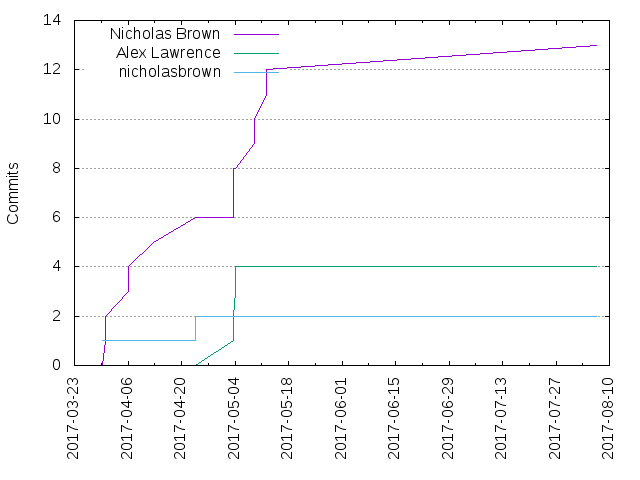
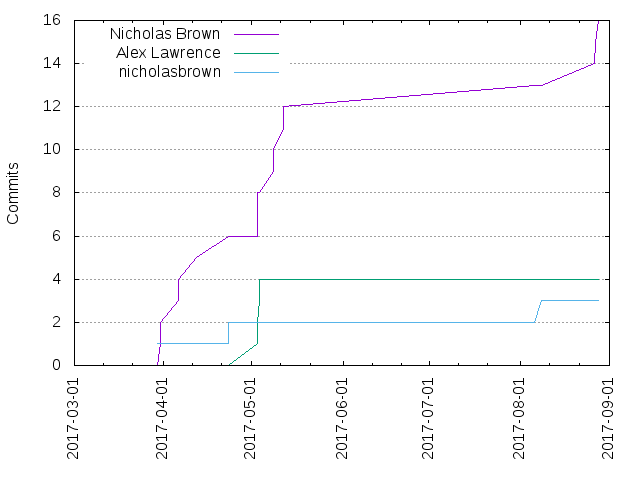
Update landing page, gitstats.

diff --git a/api-stats/activity.html b/api-stats/activity.html
@@ -22,27 +22,27 @@
 
 <h2 id="weekly_activity"><a href="#weekly_activity">Weekly activity</a></h2>
 
-<p>Last 32 weeks</p><table class="noborders"><tr><td style="text-align: center; vertical-align: bottom">0<div style="display: block; background-color: red; width: 20px; height: 1px"></div></td><td style="text-align: center; vertical-align: bottom">0<div style="display: block; background-color: red; width: 20px; height: 1px"></div></td><td style="text-align: center; vertical-align: bottom">0<div style="display: block; background-color: red; width: 20px; height: 1px"></div></td><td style="text-align: center; vertical-align: bottom">0<div style="display: block; background-color: red; width: 20px; height: 1px"></div></td><td style="text-align: center; vertical-align: bottom">0<div style="display: block; background-color: red; width: 20px; height: 1px"></div></td><td style="text-align: center; vertical-align: bottom">0<div style="display: block; background-color: red; width: 20px; height: 1px"></div></td><td style="text-align: center; vertical-align: bottom">0<div style="display: block; background-color: red; width: 20px; height: 1px"></div></td><td style="text-align: center; vertical-align: bottom">0<div style="display: block; background-color: red; width: 20px; height: 1px"></div></td><td style="text-align: center; vertical-align: bottom">0<div style="display: block; background-color: red; width: 20px; height: 1px"></div></td><td style="text-align: center; vertical-align: bottom">0<div style="display: block; background-color: red; width: 20px; height: 1px"></div></td><td style="text-align: center; vertical-align: bottom">3<div style="display: block; background-color: red; width: 20px; height: 100px"></div></td><td style="text-align: center; vertical-align: bottom">2<div style="display: block; background-color: red; width: 20px; height: 66px"></div></td><td style="text-align: center; vertical-align: bottom">1<div style="display: block; background-color: red; width: 20px; height: 33px"></div></td><td style="text-align: center; vertical-align: bottom">1<div style="display: block; background-color: red; width: 20px; height: 33px"></div></td><td style="text-align: center; vertical-align: bottom">1<div style="display: block; background-color: red; width: 20px; height: 33px"></div></td><td style="text-align: center; vertical-align: bottom">6<div style="display: block; background-color: red; width: 20px; height: 200px"></div></td><td style="text-align: center; vertical-align: bottom">4<div style="display: block; background-color: red; width: 20px; height: 133px"></div></td><td style="text-align: center; vertical-align: bottom">0<div style="display: block; background-color: red; width: 20px; height: 1px"></div></td><td style="text-align: center; vertical-align: bottom">0<div style="display: block; background-color: red; width: 20px; height: 1px"></div></td><td style="text-align: center; vertical-align: bottom">0<div style="display: block; background-color: red; width: 20px; height: 1px"></div></td><td style="text-align: center; vertical-align: bottom">0<div style="display: block; background-color: red; width: 20px; height: 1px"></div></td><td style="text-align: center; vertical-align: bottom">0<div style="display: block; background-color: red; width: 20px; height: 1px"></div></td><td style="text-align: center; vertical-align: bottom">0<div style="display: block; background-color: red; width: 20px; height: 1px"></div></td><td style="text-align: center; vertical-align: bottom">0<div style="display: block; background-color: red; width: 20px; height: 1px"></div></td><td style="text-align: center; vertical-align: bottom">0<div style="display: block; background-color: red; width: 20px; height: 1px"></div></td><td style="text-align: center; vertical-align: bottom">0<div style="display: block; background-color: red; width: 20px; height: 1px"></div></td><td style="text-align: center; vertical-align: bottom">0<div style="display: block; background-color: red; width: 20px; height: 1px"></div></td><td style="text-align: center; vertical-align: bottom">0<div style="display: block; background-color: red; width: 20px; height: 1px"></div></td><td style="text-align: center; vertical-align: bottom">1<div style="display: block; background-color: red; width: 20px; height: 33px"></div></td><td style="text-align: center; vertical-align: bottom">0<div style="display: block; background-color: red; width: 20px; height: 1px"></div></td><td style="text-align: center; vertical-align: bottom">0<div style="display: block; background-color: red; width: 20px; height: 1px"></div></td><td style="text-align: center; vertical-align: bottom">0<div style="display: block; background-color: red; width: 20px; height: 1px"></div></td></tr><tr><td>32</td><td>31</td><td>30</td><td>29</td><td>28</td><td>27</td><td>26</td><td>25</td><td>24</td><td>23</td><td>22</td><td>21</td><td>20</td><td>19</td><td>18</td><td>17</td><td>16</td><td>15</td><td>14</td><td>13</td><td>12</td><td>11</td><td>10</td><td>9</td><td>8</td><td>7</td><td>6</td><td>5</td><td>4</td><td>3</td><td>2</td><td>1</td></tr></table>
+<p>Last 32 weeks</p><table class="noborders"><tr><td style="text-align: center; vertical-align: bottom">0<div style="display: block; background-color: red; width: 20px; height: 1px"></div></td><td style="text-align: center; vertical-align: bottom">0<div style="display: block; background-color: red; width: 20px; height: 1px"></div></td><td style="text-align: center; vertical-align: bottom">0<div style="display: block; background-color: red; width: 20px; height: 1px"></div></td><td style="text-align: center; vertical-align: bottom">0<div style="display: block; background-color: red; width: 20px; height: 1px"></div></td><td style="text-align: center; vertical-align: bottom">0<div style="display: block; background-color: red; width: 20px; height: 1px"></div></td><td style="text-align: center; vertical-align: bottom">0<div style="display: block; background-color: red; width: 20px; height: 1px"></div></td><td style="text-align: center; vertical-align: bottom">0<div style="display: block; background-color: red; width: 20px; height: 1px"></div></td><td style="text-align: center; vertical-align: bottom">0<div style="display: block; background-color: red; width: 20px; height: 1px"></div></td><td style="text-align: center; vertical-align: bottom">0<div style="display: block; background-color: red; width: 20px; height: 1px"></div></td><td style="text-align: center; vertical-align: bottom">3<div style="display: block; background-color: red; width: 20px; height: 100px"></div></td><td style="text-align: center; vertical-align: bottom">2<div style="display: block; background-color: red; width: 20px; height: 66px"></div></td><td style="text-align: center; vertical-align: bottom">1<div style="display: block; background-color: red; width: 20px; height: 33px"></div></td><td style="text-align: center; vertical-align: bottom">1<div style="display: block; background-color: red; width: 20px; height: 33px"></div></td><td style="text-align: center; vertical-align: bottom">1<div style="display: block; background-color: red; width: 20px; height: 33px"></div></td><td style="text-align: center; vertical-align: bottom">6<div style="display: block; background-color: red; width: 20px; height: 200px"></div></td><td style="text-align: center; vertical-align: bottom">4<div style="display: block; background-color: red; width: 20px; height: 133px"></div></td><td style="text-align: center; vertical-align: bottom">0<div style="display: block; background-color: red; width: 20px; height: 1px"></div></td><td style="text-align: center; vertical-align: bottom">0<div style="display: block; background-color: red; width: 20px; height: 1px"></div></td><td style="text-align: center; vertical-align: bottom">0<div style="display: block; background-color: red; width: 20px; height: 1px"></div></td><td style="text-align: center; vertical-align: bottom">0<div style="display: block; background-color: red; width: 20px; height: 1px"></div></td><td style="text-align: center; vertical-align: bottom">0<div style="display: block; background-color: red; width: 20px; height: 1px"></div></td><td style="text-align: center; vertical-align: bottom">0<div style="display: block; background-color: red; width: 20px; height: 1px"></div></td><td style="text-align: center; vertical-align: bottom">0<div style="display: block; background-color: red; width: 20px; height: 1px"></div></td><td style="text-align: center; vertical-align: bottom">0<div style="display: block; background-color: red; width: 20px; height: 1px"></div></td><td style="text-align: center; vertical-align: bottom">0<div style="display: block; background-color: red; width: 20px; height: 1px"></div></td><td style="text-align: center; vertical-align: bottom">0<div style="display: block; background-color: red; width: 20px; height: 1px"></div></td><td style="text-align: center; vertical-align: bottom">0<div style="display: block; background-color: red; width: 20px; height: 1px"></div></td><td style="text-align: center; vertical-align: bottom">1<div style="display: block; background-color: red; width: 20px; height: 33px"></div></td><td style="text-align: center; vertical-align: bottom">1<div style="display: block; background-color: red; width: 20px; height: 33px"></div></td><td style="text-align: center; vertical-align: bottom">0<div style="display: block; background-color: red; width: 20px; height: 1px"></div></td><td style="text-align: center; vertical-align: bottom">2<div style="display: block; background-color: red; width: 20px; height: 66px"></div></td><td style="text-align: center; vertical-align: bottom">1<div style="display: block; background-color: red; width: 20px; height: 33px"></div></td></tr><tr><td>32</td><td>31</td><td>30</td><td>29</td><td>28</td><td>27</td><td>26</td><td>25</td><td>24</td><td>23</td><td>22</td><td>21</td><td>20</td><td>19</td><td>18</td><td>17</td><td>16</td><td>15</td><td>14</td><td>13</td><td>12</td><td>11</td><td>10</td><td>9</td><td>8</td><td>7</td><td>6</td><td>5</td><td>4</td><td>3</td><td>2</td><td>1</td></tr></table>
 <h2 id="hour_of_day"><a href="#hour_of_day">Hour of Day</a></h2>
 
 <table><tr><th>Hour</th><th>0</th><th>1</th><th>2</th><th>3</th><th>4</th><th>5</th><th>6</th><th>7</th><th>8</th><th>9</th><th>10</th><th>11</th><th>12</th><th>13</th><th>14</th><th>15</th><th>16</th><th>17</th><th>18</th><th>19</th><th>20</th><th>21</th><th>22</th><th>23</th></tr>
-<tr><th>Commits</th><td style="background-color: rgb(255, 0, 0)">4</td><td>0</td><td>0</td><td>0</td><td>0</td><td>0</td><td>0</td><td>0</td><td>0</td><td style="background-color: rgb(159, 0, 0)">1</td><td style="background-color: rgb(159, 0, 0)">1</td><td style="background-color: rgb(159, 0, 0)">1</td><td>0</td><td style="background-color: rgb(159, 0, 0)">1</td><td style="background-color: rgb(191, 0, 0)">2</td><td style="background-color: rgb(159, 0, 0)">1</td><td style="background-color: rgb(191, 0, 0)">2</td><td style="background-color: rgb(191, 0, 0)">2</td><td>0</td><td>0</td><td>0</td><td>0</td><td>0</td><td style="background-color: rgb(255, 0, 0)">4</td></tr>
-<tr><th>%</th><td style="background-color: rgb(255, 0, 0)">21.05</td><td>0.00</td><td>0.00</td><td>0.00</td><td>0.00</td><td>0.00</td><td>0.00</td><td>0.00</td><td>0.00</td><td style="background-color: rgb(159, 0, 0)">5.26</td><td style="background-color: rgb(159, 0, 0)">5.26</td><td style="background-color: rgb(159, 0, 0)">5.26</td><td>0.00</td><td style="background-color: rgb(159, 0, 0)">5.26</td><td style="background-color: rgb(191, 0, 0)">10.53</td><td style="background-color: rgb(159, 0, 0)">5.26</td><td style="background-color: rgb(191, 0, 0)">10.53</td><td style="background-color: rgb(191, 0, 0)">10.53</td><td>0.00</td><td>0.00</td><td>0.00</td><td>0.00</td><td>0.00</td><td style="background-color: rgb(255, 0, 0)">21.05</td></tr></table><img src="hour_of_day.png" alt="Hour of Day">
+<tr><th>Commits</th><td style="background-color: rgb(255, 0, 0)">4</td><td>0</td><td>0</td><td>0</td><td>0</td><td>0</td><td>0</td><td>0</td><td style="background-color: rgb(159, 0, 0)">1</td><td style="background-color: rgb(159, 0, 0)">1</td><td style="background-color: rgb(159, 0, 0)">1</td><td style="background-color: rgb(159, 0, 0)">1</td><td>0</td><td style="background-color: rgb(159, 0, 0)">1</td><td style="background-color: rgb(191, 0, 0)">2</td><td style="background-color: rgb(159, 0, 0)">1</td><td style="background-color: rgb(223, 0, 0)">3</td><td style="background-color: rgb(223, 0, 0)">3</td><td style="background-color: rgb(159, 0, 0)">1</td><td>0</td><td>0</td><td>0</td><td>0</td><td style="background-color: rgb(255, 0, 0)">4</td></tr>
+<tr><th>%</th><td style="background-color: rgb(255, 0, 0)">17.39</td><td>0.00</td><td>0.00</td><td>0.00</td><td>0.00</td><td>0.00</td><td>0.00</td><td>0.00</td><td style="background-color: rgb(159, 0, 0)">4.35</td><td style="background-color: rgb(159, 0, 0)">4.35</td><td style="background-color: rgb(159, 0, 0)">4.35</td><td style="background-color: rgb(159, 0, 0)">4.35</td><td>0.00</td><td style="background-color: rgb(159, 0, 0)">4.35</td><td style="background-color: rgb(191, 0, 0)">8.70</td><td style="background-color: rgb(159, 0, 0)">4.35</td><td style="background-color: rgb(223, 0, 0)">13.04</td><td style="background-color: rgb(223, 0, 0)">13.04</td><td style="background-color: rgb(159, 0, 0)">4.35</td><td>0.00</td><td>0.00</td><td>0.00</td><td>0.00</td><td style="background-color: rgb(255, 0, 0)">17.39</td></tr></table><img src="hour_of_day.png" alt="Hour of Day">
 <h2 id="day_of_week"><a href="#day_of_week">Day of Week</a></h2>
 
-<div class="vtable"><table><tr><th>Day</th><th>Total (%)</th></tr><tr><th>Mon</th><td>1 (5.26%)</td></tr><tr><th>Tue</th><td>2 (10.53%)</td></tr><tr><th>Wed</th><td>2 (10.53%)</td></tr><tr><th>Thu</th><td>8 (42.11%)</td></tr><tr><th>Fri</th><td>4 (21.05%)</td></tr><tr><th>Sat</th><td>0</td></tr><tr><th>Sun</th><td>2 (10.53%)</td></tr></table></div><img src="day_of_week.png" alt="Day of Week">
+<div class="vtable"><table><tr><th>Day</th><th>Total (%)</th></tr><tr><th>Mon</th><td>2 (8.70%)</td></tr><tr><th>Tue</th><td>2 (8.70%)</td></tr><tr><th>Wed</th><td>3 (13.04%)</td></tr><tr><th>Thu</th><td>8 (34.78%)</td></tr><tr><th>Fri</th><td>4 (17.39%)</td></tr><tr><th>Sat</th><td>0</td></tr><tr><th>Sun</th><td>4 (17.39%)</td></tr></table></div><img src="day_of_week.png" alt="Day of Week">
 <h2 id="hour_of_week"><a href="#hour_of_week">Hour of Week</a></h2>
 
-<table><tr><th>Weekday</th><th>0</th><th>1</th><th>2</th><th>3</th><th>4</th><th>5</th><th>6</th><th>7</th><th>8</th><th>9</th><th>10</th><th>11</th><th>12</th><th>13</th><th>14</th><th>15</th><th>16</th><th>17</th><th>18</th><th>19</th><th>20</th><th>21</th><th>22</th><th>23</th></tr><tr><th>Mon</th><td style="background-color: rgb(169, 0, 0)">1</td><td></td><td></td><td></td><td></td><td></td><td></td><td></td><td></td><td></td><td></td><td></td><td></td><td></td><td></td><td></td><td></td><td></td><td></td><td></td><td></td><td></td><td></td><td></td></tr><tr><th>Tue</th><td></td><td></td><td></td><td></td><td></td><td></td><td></td><td></td><td></td><td style="background-color: rgb(169, 0, 0)">1</td><td style="background-color: rgb(169, 0, 0)">1</td><td></td><td></td><td></td><td></td><td></td><td></td><td></td><td></td><td></td><td></td><td></td><td></td><td></td></tr><tr><th>Wed</th><td></td><td></td><td></td><td></td><td></td><td></td><td></td><td></td><td></td><td></td><td></td><td></td><td></td><td></td><td></td><td></td><td></td><td></td><td></td><td></td><td></td><td></td><td></td><td style="background-color: rgb(212, 0, 0)">2</td></tr><tr><th>Thu</th><td style="background-color: rgb(255, 0, 0)">3</td><td></td><td></td><td></td><td></td><td></td><td></td><td></td><td></td><td></td><td></td><td style="background-color: rgb(169, 0, 0)">1</td><td></td><td></td><td style="background-color: rgb(169, 0, 0)">1</td><td style="background-color: rgb(169, 0, 0)">1</td><td style="background-color: rgb(212, 0, 0)">2</td><td></td><td></td><td></td><td></td><td></td><td></td><td></td></tr><tr><th>Fri</th><td></td><td></td><td></td><td></td><td></td><td></td><td></td><td></td><td></td><td></td><td></td><td></td><td></td><td style="background-color: rgb(169, 0, 0)">1</td><td style="background-color: rgb(169, 0, 0)">1</td><td></td><td></td><td style="background-color: rgb(212, 0, 0)">2</td><td></td><td></td><td></td><td></td><td></td><td></td></tr><tr><th>Sat</th><td></td><td></td><td></td><td></td><td></td><td></td><td></td><td></td><td></td><td></td><td></td><td></td><td></td><td></td><td></td><td></td><td></td><td></td><td></td><td></td><td></td><td></td><td></td><td></td></tr><tr><th>Sun</th><td></td><td></td><td></td><td></td><td></td><td></td><td></td><td></td><td></td><td></td><td></td><td></td><td></td><td></td><td></td><td></td><td></td><td></td><td></td><td></td><td></td><td></td><td></td><td style="background-color: rgb(212, 0, 0)">2</td></tr></table>
+<table><tr><th>Weekday</th><th>0</th><th>1</th><th>2</th><th>3</th><th>4</th><th>5</th><th>6</th><th>7</th><th>8</th><th>9</th><th>10</th><th>11</th><th>12</th><th>13</th><th>14</th><th>15</th><th>16</th><th>17</th><th>18</th><th>19</th><th>20</th><th>21</th><th>22</th><th>23</th></tr><tr><th>Mon</th><td style="background-color: rgb(169, 0, 0)">1</td><td></td><td></td><td></td><td></td><td></td><td></td><td></td><td></td><td></td><td></td><td></td><td></td><td></td><td></td><td></td><td></td><td></td><td style="background-color: rgb(169, 0, 0)">1</td><td></td><td></td><td></td><td></td><td></td></tr><tr><th>Tue</th><td></td><td></td><td></td><td></td><td></td><td></td><td></td><td></td><td></td><td style="background-color: rgb(169, 0, 0)">1</td><td style="background-color: rgb(169, 0, 0)">1</td><td></td><td></td><td></td><td></td><td></td><td></td><td></td><td></td><td></td><td></td><td></td><td></td><td></td></tr><tr><th>Wed</th><td></td><td></td><td></td><td></td><td></td><td></td><td></td><td></td><td style="background-color: rgb(169, 0, 0)">1</td><td></td><td></td><td></td><td></td><td></td><td></td><td></td><td></td><td></td><td></td><td></td><td></td><td></td><td></td><td style="background-color: rgb(212, 0, 0)">2</td></tr><tr><th>Thu</th><td style="background-color: rgb(255, 0, 0)">3</td><td></td><td></td><td></td><td></td><td></td><td></td><td></td><td></td><td></td><td></td><td style="background-color: rgb(169, 0, 0)">1</td><td></td><td></td><td style="background-color: rgb(169, 0, 0)">1</td><td style="background-color: rgb(169, 0, 0)">1</td><td style="background-color: rgb(212, 0, 0)">2</td><td></td><td></td><td></td><td></td><td></td><td></td><td></td></tr><tr><th>Fri</th><td></td><td></td><td></td><td></td><td></td><td></td><td></td><td></td><td></td><td></td><td></td><td></td><td></td><td style="background-color: rgb(169, 0, 0)">1</td><td style="background-color: rgb(169, 0, 0)">1</td><td></td><td></td><td style="background-color: rgb(212, 0, 0)">2</td><td></td><td></td><td></td><td></td><td></td><td></td></tr><tr><th>Sat</th><td></td><td></td><td></td><td></td><td></td><td></td><td></td><td></td><td></td><td></td><td></td><td></td><td></td><td></td><td></td><td></td><td></td><td></td><td></td><td></td><td></td><td></td><td></td><td></td></tr><tr><th>Sun</th><td></td><td></td><td></td><td></td><td></td><td></td><td></td><td></td><td></td><td></td><td></td><td></td><td></td><td></td><td></td><td></td><td style="background-color: rgb(169, 0, 0)">1</td><td style="background-color: rgb(169, 0, 0)">1</td><td></td><td></td><td></td><td></td><td></td><td style="background-color: rgb(212, 0, 0)">2</td></tr></table>
 <h2 id="month_of_year"><a href="#month_of_year">Month of Year</a></h2>
 
-<div class="vtable"><table><tr><th>Month</th><th>Commits (%)</th></tr><tr><td>1</td><td>0 (0.00 %)</td></tr><tr><td>2</td><td>0 (0.00 %)</td></tr><tr><td>3</td><td>3 (15.79 %)</td></tr><tr><td>4</td><td>5 (26.32 %)</td></tr><tr><td>5</td><td>10 (52.63 %)</td></tr><tr><td>6</td><td>0 (0.00 %)</td></tr><tr><td>7</td><td>0 (0.00 %)</td></tr><tr><td>8</td><td>1 (5.26 %)</td></tr><tr><td>9</td><td>0 (0.00 %)</td></tr><tr><td>10</td><td>0 (0.00 %)</td></tr><tr><td>11</td><td>0 (0.00 %)</td></tr><tr><td>12</td><td>0 (0.00 %)</td></tr></table></div><img src="month_of_year.png" alt="Month of Year">
+<div class="vtable"><table><tr><th>Month</th><th>Commits (%)</th></tr><tr><td>1</td><td>0 (0.00 %)</td></tr><tr><td>2</td><td>0 (0.00 %)</td></tr><tr><td>3</td><td>3 (13.04 %)</td></tr><tr><td>4</td><td>5 (21.74 %)</td></tr><tr><td>5</td><td>10 (43.48 %)</td></tr><tr><td>6</td><td>0 (0.00 %)</td></tr><tr><td>7</td><td>0 (0.00 %)</td></tr><tr><td>8</td><td>5 (21.74 %)</td></tr><tr><td>9</td><td>0 (0.00 %)</td></tr><tr><td>10</td><td>0 (0.00 %)</td></tr><tr><td>11</td><td>0 (0.00 %)</td></tr><tr><td>12</td><td>0 (0.00 %)</td></tr></table></div><img src="month_of_year.png" alt="Month of Year">
 <h2 id="commits_by_year/month"><a href="#commits_by_year/month">Commits by year/month</a></h2>
 
-<div class="vtable"><table><tr><th>Month</th><th>Commits</th><th>Lines added</th><th>Lines removed</th></tr><tr><td>2017-08</td><td>1</td><td>104</td><td>23</td></tr><tr><td>2017-05</td><td>10</td><td>216</td><td>54</td></tr><tr><td>2017-04</td><td>5</td><td>804</td><td>414</td></tr><tr><td>2017-03</td><td>3</td><td>210</td><td>2</td></tr></table></div><img src="commits_by_year_month.png" alt="Commits by year/month">
+<div class="vtable"><table><tr><th>Month</th><th>Commits</th><th>Lines added</th><th>Lines removed</th></tr><tr><td>2017-08</td><td>5</td><td>243</td><td>82</td></tr><tr><td>2017-05</td><td>10</td><td>216</td><td>54</td></tr><tr><td>2017-04</td><td>5</td><td>804</td><td>414</td></tr><tr><td>2017-03</td><td>3</td><td>210</td><td>2</td></tr></table></div><img src="commits_by_year_month.png" alt="Commits by year/month">
 <h2 id="commits_by_year"><a href="#commits_by_year">Commits by Year</a></h2>
 
-<div class="vtable"><table><tr><th>Year</th><th>Commits (% of all)</th><th>Lines added</th><th>Lines removed</th></tr><tr><td>2017</td><td>19 (100.00%)</td><td>1334</td><td>493</td></tr></table></div><img src="commits_by_year.png" alt="Commits by Year">
+<div class="vtable"><table><tr><th>Year</th><th>Commits (% of all)</th><th>Lines added</th><th>Lines removed</th></tr><tr><td>2017</td><td>23 (100.00%)</td><td>1473</td><td>552</td></tr></table></div><img src="commits_by_year.png" alt="Commits by Year">
 <h2 id="commits_by_timezone"><a href="#commits_by_timezone">Commits by Timezone</a></h2>
 
-<table><tr><th>Timezone</th><th>Commits</th></tr><tr><th>+1000</th><td style="background-color: rgb(255, 0, 0)">16</td></tr><tr><th>+1100</th><td style="background-color: rgb(151, 0, 0)">3</td></tr></table></body></html>
+<table><tr><th>Timezone</th><th>Commits</th></tr><tr><th>+1000</th><td style="background-color: rgb(255, 0, 0)">20</td></tr><tr><th>+1100</th><td style="background-color: rgb(146, 0, 0)">3</td></tr></table></body></html>

diff --git a/app-stats/activity.html b/app-stats/activity.html
@@ -22,7 +22,7 @@
 
 <h2 id="weekly_activity"><a href="#weekly_activity">Weekly activity</a></h2>
 
-<p>Last 32 weeks</p><table class="noborders"><tr><td style="text-align: center; vertical-align: bottom">0<div style="display: block; background-color: red; width: 20px; height: 1px"></div></td><td style="text-align: center; vertical-align: bottom">0<div style="display: block; background-color: red; width: 20px; height: 1px"></div></td><td style="text-align: center; vertical-align: bottom">0<div style="display: block; background-color: red; width: 20px; height: 1px"></div></td><td style="text-align: center; vertical-align: bottom">0<div style="display: block; background-color: red; width: 20px; height: 1px"></div></td><td style="text-align: center; vertical-align: bottom">0<div style="display: block; background-color: red; width: 20px; height: 1px"></div></td><td style="text-align: center; vertical-align: bottom">0<div style="display: block; background-color: red; width: 20px; height: 1px"></div></td><td style="text-align: center; vertical-align: bottom">0<div style="display: block; background-color: red; width: 20px; height: 1px"></div></td><td style="text-align: center; vertical-align: bottom">0<div style="display: block; background-color: red; width: 20px; height: 1px"></div></td><td style="text-align: center; vertical-align: bottom">0<div style="display: block; background-color: red; width: 20px; height: 1px"></div></td><td style="text-align: center; vertical-align: bottom">0<div style="display: block; background-color: red; width: 20px; height: 1px"></div></td><td style="text-align: center; vertical-align: bottom">2<div style="display: block; background-color: red; width: 20px; height: 133px"></div></td><td style="text-align: center; vertical-align: bottom">3<div style="display: block; background-color: red; width: 20px; height: 200px"></div></td><td style="text-align: center; vertical-align: bottom">0<div style="display: block; background-color: red; width: 20px; height: 1px"></div></td><td style="text-align: center; vertical-align: bottom">0<div style="display: block; background-color: red; width: 20px; height: 1px"></div></td><td style="text-align: center; vertical-align: bottom">0<div style="display: block; background-color: red; width: 20px; height: 1px"></div></td><td style="text-align: center; vertical-align: bottom">0<div style="display: block; background-color: red; width: 20px; height: 1px"></div></td><td style="text-align: center; vertical-align: bottom">0<div style="display: block; background-color: red; width: 20px; height: 1px"></div></td><td style="text-align: center; vertical-align: bottom">0<div style="display: block; background-color: red; width: 20px; height: 1px"></div></td><td style="text-align: center; vertical-align: bottom">0<div style="display: block; background-color: red; width: 20px; height: 1px"></div></td><td style="text-align: center; vertical-align: bottom">0<div style="display: block; background-color: red; width: 20px; height: 1px"></div></td><td style="text-align: center; vertical-align: bottom">0<div style="display: block; background-color: red; width: 20px; height: 1px"></div></td><td style="text-align: center; vertical-align: bottom">0<div style="display: block; background-color: red; width: 20px; height: 1px"></div></td><td style="text-align: center; vertical-align: bottom">0<div style="display: block; background-color: red; width: 20px; height: 1px"></div></td><td style="text-align: center; vertical-align: bottom">0<div style="display: block; background-color: red; width: 20px; height: 1px"></div></td><td style="text-align: center; vertical-align: bottom">0<div style="display: block; background-color: red; width: 20px; height: 1px"></div></td><td style="text-align: center; vertical-align: bottom">0<div style="display: block; background-color: red; width: 20px; height: 1px"></div></td><td style="text-align: center; vertical-align: bottom">0<div style="display: block; background-color: red; width: 20px; height: 1px"></div></td><td style="text-align: center; vertical-align: bottom">0<div style="display: block; background-color: red; width: 20px; height: 1px"></div></td><td style="text-align: center; vertical-align: bottom">0<div style="display: block; background-color: red; width: 20px; height: 1px"></div></td><td style="text-align: center; vertical-align: bottom">0<div style="display: block; background-color: red; width: 20px; height: 1px"></div></td><td style="text-align: center; vertical-align: bottom">0<div style="display: block; background-color: red; width: 20px; height: 1px"></div></td><td style="text-align: center; vertical-align: bottom">2<div style="display: block; background-color: red; width: 20px; height: 133px"></div></td></tr><tr><td>32</td><td>31</td><td>30</td><td>29</td><td>28</td><td>27</td><td>26</td><td>25</td><td>24</td><td>23</td><td>22</td><td>21</td><td>20</td><td>19</td><td>18</td><td>17</td><td>16</td><td>15</td><td>14</td><td>13</td><td>12</td><td>11</td><td>10</td><td>9</td><td>8</td><td>7</td><td>6</td><td>5</td><td>4</td><td>3</td><td>2</td><td>1</td></tr></table>
+<p>Last 32 weeks</p><table class="noborders"><tr><td style="text-align: center; vertical-align: bottom">0<div style="display: block; background-color: red; width: 20px; height: 1px"></div></td><td style="text-align: center; vertical-align: bottom">0<div style="display: block; background-color: red; width: 20px; height: 1px"></div></td><td style="text-align: center; vertical-align: bottom">0<div style="display: block; background-color: red; width: 20px; height: 1px"></div></td><td style="text-align: center; vertical-align: bottom">0<div style="display: block; background-color: red; width: 20px; height: 1px"></div></td><td style="text-align: center; vertical-align: bottom">0<div style="display: block; background-color: red; width: 20px; height: 1px"></div></td><td style="text-align: center; vertical-align: bottom">0<div style="display: block; background-color: red; width: 20px; height: 1px"></div></td><td style="text-align: center; vertical-align: bottom">0<div style="display: block; background-color: red; width: 20px; height: 1px"></div></td><td style="text-align: center; vertical-align: bottom">0<div style="display: block; background-color: red; width: 20px; height: 1px"></div></td><td style="text-align: center; vertical-align: bottom">0<div style="display: block; background-color: red; width: 20px; height: 1px"></div></td><td style="text-align: center; vertical-align: bottom">2<div style="display: block; background-color: red; width: 20px; height: 133px"></div></td><td style="text-align: center; vertical-align: bottom">3<div style="display: block; background-color: red; width: 20px; height: 200px"></div></td><td style="text-align: center; vertical-align: bottom">0<div style="display: block; background-color: red; width: 20px; height: 1px"></div></td><td style="text-align: center; vertical-align: bottom">0<div style="display: block; background-color: red; width: 20px; height: 1px"></div></td><td style="text-align: center; vertical-align: bottom">0<div style="display: block; background-color: red; width: 20px; height: 1px"></div></td><td style="text-align: center; vertical-align: bottom">0<div style="display: block; background-color: red; width: 20px; height: 1px"></div></td><td style="text-align: center; vertical-align: bottom">0<div style="display: block; background-color: red; width: 20px; height: 1px"></div></td><td style="text-align: center; vertical-align: bottom">0<div style="display: block; background-color: red; width: 20px; height: 1px"></div></td><td style="text-align: center; vertical-align: bottom">0<div style="display: block; background-color: red; width: 20px; height: 1px"></div></td><td style="text-align: center; vertical-align: bottom">0<div style="display: block; background-color: red; width: 20px; height: 1px"></div></td><td style="text-align: center; vertical-align: bottom">0<div style="display: block; background-color: red; width: 20px; height: 1px"></div></td><td style="text-align: center; vertical-align: bottom">0<div style="display: block; background-color: red; width: 20px; height: 1px"></div></td><td style="text-align: center; vertical-align: bottom">0<div style="display: block; background-color: red; width: 20px; height: 1px"></div></td><td style="text-align: center; vertical-align: bottom">0<div style="display: block; background-color: red; width: 20px; height: 1px"></div></td><td style="text-align: center; vertical-align: bottom">0<div style="display: block; background-color: red; width: 20px; height: 1px"></div></td><td style="text-align: center; vertical-align: bottom">0<div style="display: block; background-color: red; width: 20px; height: 1px"></div></td><td style="text-align: center; vertical-align: bottom">0<div style="display: block; background-color: red; width: 20px; height: 1px"></div></td><td style="text-align: center; vertical-align: bottom">0<div style="display: block; background-color: red; width: 20px; height: 1px"></div></td><td style="text-align: center; vertical-align: bottom">0<div style="display: block; background-color: red; width: 20px; height: 1px"></div></td><td style="text-align: center; vertical-align: bottom">0<div style="display: block; background-color: red; width: 20px; height: 1px"></div></td><td style="text-align: center; vertical-align: bottom">0<div style="display: block; background-color: red; width: 20px; height: 1px"></div></td><td style="text-align: center; vertical-align: bottom">2<div style="display: block; background-color: red; width: 20px; height: 133px"></div></td><td style="text-align: center; vertical-align: bottom">0<div style="display: block; background-color: red; width: 20px; height: 1px"></div></td></tr><tr><td>32</td><td>31</td><td>30</td><td>29</td><td>28</td><td>27</td><td>26</td><td>25</td><td>24</td><td>23</td><td>22</td><td>21</td><td>20</td><td>19</td><td>18</td><td>17</td><td>16</td><td>15</td><td>14</td><td>13</td><td>12</td><td>11</td><td>10</td><td>9</td><td>8</td><td>7</td><td>6</td><td>5</td><td>4</td><td>3</td><td>2</td><td>1</td></tr></table>
 <h2 id="hour_of_day"><a href="#hour_of_day">Hour of Day</a></h2>
 
 <table><tr><th>Hour</th><th>0</th><th>1</th><th>2</th><th>3</th><th>4</th><th>5</th><th>6</th><th>7</th><th>8</th><th>9</th><th>10</th><th>11</th><th>12</th><th>13</th><th>14</th><th>15</th><th>16</th><th>17</th><th>18</th><th>19</th><th>20</th><th>21</th><th>22</th><th>23</th></tr>

diff --git a/api-stats/authors.html b/api-stats/authors.html
@@ -22,7 +22,7 @@
 
 <h2 id="list_of_authors"><a href="#list_of_authors">List of Authors</a></h2>
 
-<table class="authors sortable" id="authors"><tr><th>Author</th><th>Commits (%)</th><th>+ lines</th><th>- lines</th><th>First commit</th><th>Last commit</th><th class="unsortable">Age</th><th>Active days</th><th># by commits</th></tr><tr><td>Nicholas Brown</td><td>13 (68.42%)</td><td>1204</td><td>481</td><td>2017-03-31</td><td>2017-08-06</td><td>128 days, 10:10:28</td><td>8</td><td>1</td></tr><tr><td>Alex Lawrence</td><td>4 (21.05%)</td><td>111</td><td>15</td><td>2017-05-03</td><td>2017-05-04</td><td>14:10:35</td><td>2</td><td>2</td></tr><tr><td>nicholasbrown</td><td>2 (10.53%)</td><td>50</td><td>1</td><td>2017-03-30</td><td>2017-04-24</td><td>24 days, 7:28:56</td><td>2</td><td>3</td></tr></table>
+<table class="authors sortable" id="authors"><tr><th>Author</th><th>Commits (%)</th><th>+ lines</th><th>- lines</th><th>First commit</th><th>Last commit</th><th class="unsortable">Age</th><th>Active days</th><th># by commits</th></tr><tr><td>Nicholas Brown</td><td>16 (69.57%)</td><td>1308</td><td>532</td><td>2017-03-31</td><td>2017-08-28</td><td>150 days, 5:38:26</td><td>10</td><td>1</td></tr><tr><td>Alex Lawrence</td><td>4 (17.39%)</td><td>111</td><td>15</td><td>2017-05-03</td><td>2017-05-04</td><td>14:10:35</td><td>2</td><td>2</td></tr><tr><td>nicholasbrown</td><td>3 (13.04%)</td><td>85</td><td>9</td><td>2017-03-30</td><td>2017-08-09</td><td>131 days, 16:19:04</td><td>3</td><td>3</td></tr></table>
 <h2 id="cumulated_added_lines_of_code_per_author"><a href="#cumulated_added_lines_of_code_per_author">Cumulated Added Lines of Code per Author</a></h2>
 
 <img src="lines_of_code_by_author.png" alt="Lines of code per Author">
@@ -31,10 +31,10 @@
 <img src="commits_by_author.png" alt="Commits per Author">
 <h2 id="author_of_month"><a href="#author_of_month">Author of Month</a></h2>
 
-<table class="sortable" id="aom"><tr><th>Month</th><th>Author</th><th>Commits (%)</th><th class="unsortable">Next top 5</th><th>Number of authors</th></tr><tr><td>2017-08</td><td>Nicholas Brown</td><td>1 (100.00% of 1)</td><td></td><td>1</td></tr><tr><td>2017-05</td><td>Nicholas Brown</td><td>6 (60.00% of 10)</td><td>Alex Lawrence</td><td>2</td></tr><tr><td>2017-04</td><td>Nicholas Brown</td><td>4 (80.00% of 5)</td><td>nicholasbrown</td><td>2</td></tr><tr><td>2017-03</td><td>Nicholas Brown</td><td>2 (66.67% of 3)</td><td>nicholasbrown</td><td>2</td></tr></table>
+<table class="sortable" id="aom"><tr><th>Month</th><th>Author</th><th>Commits (%)</th><th class="unsortable">Next top 5</th><th>Number of authors</th></tr><tr><td>2017-08</td><td>Nicholas Brown</td><td>4 (80.00% of 5)</td><td>nicholasbrown</td><td>2</td></tr><tr><td>2017-05</td><td>Nicholas Brown</td><td>6 (60.00% of 10)</td><td>Alex Lawrence</td><td>2</td></tr><tr><td>2017-04</td><td>Nicholas Brown</td><td>4 (80.00% of 5)</td><td>nicholasbrown</td><td>2</td></tr><tr><td>2017-03</td><td>Nicholas Brown</td><td>2 (66.67% of 3)</td><td>nicholasbrown</td><td>2</td></tr></table>
 <h2 id="author_of_year"><a href="#author_of_year">Author of Year</a></h2>
 
-<table class="sortable" id="aoy"><tr><th>Year</th><th>Author</th><th>Commits (%)</th><th class="unsortable">Next top 5</th><th>Number of authors</th></tr><tr><td>2017</td><td>Nicholas Brown</td><td>13 (68.42% of 19)</td><td>Alex Lawrence, nicholasbrown</td><td>3</td></tr></table>
+<table class="sortable" id="aoy"><tr><th>Year</th><th>Author</th><th>Commits (%)</th><th class="unsortable">Next top 5</th><th>Number of authors</th></tr><tr><td>2017</td><td>Nicholas Brown</td><td>16 (69.57% of 23)</td><td>Alex Lawrence, nicholasbrown</td><td>3</td></tr></table>
 <h2 id="commits_by_domains"><a href="#commits_by_domains">Commits by Domains</a></h2>
 
-<div class="vtable"><table><tr><th>Domains</th><th>Total (%)</th></tr><tr><th>users.noreply.github.com</th><td>15 (78.95%)</td></tr><tr><th>anu.edu.au</th><td>4 (21.05%)</td></tr></table></div><img src="domains.png" alt="Commits by Domains"></body></html>
+<div class="vtable"><table><tr><th>Domains</th><th>Total (%)</th></tr><tr><th>users.noreply.github.com</th><td>19 (82.61%)</td></tr><tr><th>anu.edu.au</th><td>4 (17.39%)</td></tr></table></div><img src="domains.png" alt="Commits by Domains"></body></html>

diff --git a/api-stats/files.html b/api-stats/files.html
@@ -20,11 +20,11 @@
 </ul>
 </div>
 <dl>
-<dt>Total files</dt><dd>14</dd><dt>Total lines</dt><dd>841</dd><dt>Average file size</dt><dd>1567.29 bytes</dd></dl>
+<dt>Total files</dt><dd>16</dd><dt>Total lines</dt><dd>921</dd><dt>Average file size</dt><dd>1607.25 bytes</dd></dl>
 
 <h2 id="file_count_by_date"><a href="#file_count_by_date">File count by date</a></h2>
 
 <img src="files_by_date.png" alt="Files by Date">
 <h2 id="extensions"><a href="#extensions">Extensions</a></h2>
 
-<table class="sortable" id="ext"><tr><th>Extension</th><th>Files (%)</th><th>Lines (%)</th><th>Lines/file</th></tr><tr><td></td><td>2 (14.29%)</td><td>49 (5.83%)</td><td>24</td></tr><tr><td>go</td><td>4 (28.57%)</td><td>552 (65.64%)</td><td>138</td></tr><tr><td>html</td><td>3 (21.43%)</td><td>54 (6.42%)</td><td>18</td></tr><tr><td>json</td><td>1 (7.14%)</td><td>12 (1.43%)</td><td>12</td></tr><tr><td>md</td><td>1 (7.14%)</td><td>51 (6.06%)</td><td>51</td></tr><tr><td>sql</td><td>3 (21.43%)</td><td>118 (14.03%)</td><td>39</td></tr></table></body></html>
+<table class="sortable" id="ext"><tr><th>Extension</th><th>Files (%)</th><th>Lines (%)</th><th>Lines/file</th></tr><tr><td></td><td>2 (12.50%)</td><td>49 (5.32%)</td><td>24</td></tr><tr><td>go</td><td>5 (31.25%)</td><td>585 (63.52%)</td><td>117</td></tr><tr><td>html</td><td>3 (18.75%)</td><td>54 (5.86%)</td><td>18</td></tr><tr><td>json</td><td>1 (6.25%)</td><td>12 (1.30%)</td><td>12</td></tr><tr><td>md</td><td>2 (12.50%)</td><td>97 (10.53%)</td><td>48</td></tr><tr><td>sql</td><td>3 (18.75%)</td><td>118 (12.81%)</td><td>39</td></tr></table></body></html>

diff --git a/app-stats/index.html b/app-stats/index.html
@@ -19,5 +19,5 @@
 <li><a href="tags.html">Tags</a></li>
 </ul>
 </div>
-<dl><dt>Project name</dt><dd>yugurWebApp</dd><dt>Generated</dt><dd>2017-08-27 16:01:20 (in 0 seconds)</dd><dt>Generator</dt><dd><a href="http://gitstats.sourceforge.net/">GitStats</a> (version 2015.10.03), git version 2.11.0, gnuplot 5.0 patchlevel 5</dd><dt>Report Period</dt><dd>2017-03-29 11:10:15 to 2017-08-21 13:28:20</dd><dt>Age</dt><dd>146 days, 3 active days (2.05%)</dd><dt>Total Files</dt><dd>30</dd><dt>Total Lines of Code</dt><dd>307669 (307695 added, 26 removed)</dd><dt>Total Commits</dt><dd>7 (average 2.3 commits per active day, 0.0 per all days)</dd><dt>Authors</dt><dd>2 (average 3.5 commits per author)</dd></dl></body>
+<dl><dt>Project name</dt><dd>yugurWebApp</dd><dt>Generated</dt><dd>2017-08-28 19:09:32 (in 0 seconds)</dd><dt>Generator</dt><dd><a href="http://gitstats.sourceforge.net/">GitStats</a> (version 2015.10.03), git version 2.11.0, gnuplot 5.0 patchlevel 5</dd><dt>Report Period</dt><dd>2017-03-29 11:10:15 to 2017-08-21 13:28:20</dd><dt>Age</dt><dd>146 days, 3 active days (2.05%)</dd><dt>Total Files</dt><dd>30</dd><dt>Total Lines of Code</dt><dd>307669 (307695 added, 26 removed)</dd><dt>Total Commits</dt><dd>7 (average 2.3 commits per active day, 0.0 per all days)</dd><dt>Authors</dt><dd>2 (average 3.5 commits per author)</dd></dl></body>
 </html>

diff --git a/api-stats/index.html b/api-stats/index.html
@@ -19,5 +19,5 @@
 <li><a href="tags.html">Tags</a></li>
 </ul>
 </div>
-<dl><dt>Project name</dt><dd>api</dd><dt>Generated</dt><dd>2017-08-27 15:53:12 (in 1 seconds)</dd><dt>Generator</dt><dd><a href="http://gitstats.sourceforge.net/">GitStats</a> (version 2015.10.03), git version 2.11.0, gnuplot 5.0 patchlevel 5</dd><dt>Report Period</dt><dd>2017-03-30 16:36:34 to 2017-08-06 23:27:36</dd><dt>Age</dt><dd>130 days, 11 active days (8.46%)</dd><dt>Total Files</dt><dd>14</dd><dt>Total Lines of Code</dt><dd>841 (1334 added, 493 removed)</dd><dt>Total Commits</dt><dd>19 (average 1.7 commits per active day, 0.1 per all days)</dd><dt>Authors</dt><dd>3 (average 6.3 commits per author)</dd></dl></body>
+<dl><dt>Project name</dt><dd>api</dd><dt>Generated</dt><dd>2017-08-28 19:09:13 (in 0 seconds)</dd><dt>Generator</dt><dd><a href="http://gitstats.sourceforge.net/">GitStats</a> (version 2015.10.03), git version 2.11.0, gnuplot 5.0 patchlevel 5</dd><dt>Report Period</dt><dd>2017-03-30 16:36:34 to 2017-08-28 18:55:34</dd><dt>Age</dt><dd>152 days, 14 active days (9.21%)</dd><dt>Total Files</dt><dd>16</dd><dt>Total Lines of Code</dt><dd>921 (1473 added, 552 removed)</dd><dt>Total Commits</dt><dd>23 (average 1.6 commits per active day, 0.2 per all days)</dd><dt>Authors</dt><dd>3 (average 7.7 commits per author)</dd></dl></body>
 </html>

diff --git a/api-stats/lines.html b/api-stats/lines.html
@@ -20,7 +20,7 @@
 </ul>
 </div>
 <dl>
-<dt>Total lines</dt><dd>841</dd></dl>
+<dt>Total lines</dt><dd>921</dd></dl>
 
 <h2 id="lines_of_code"><a href="#lines_of_code">Lines of Code</a></h2>
 

diff --git a/README.md b/README.md
@@ -1,10 +1,13 @@
 # About
-The Yugur Online dictionary is an open-source project aiming to build a dictionary API and website targeted at the preservation and research of indigenous and endangered languages.
+The Yugur Online dictionary is an open-source project aiming to build a dictionary targeted at the preservation and research of indigenous and endangered languages. The project is currently split into two parts: a web app built with React.js and a RESTful API built in Go.
 
 ## Source
-The source code and more information for Yugur Online dictionary projects like the RESTful API and React.js front-end can be found [here](https://github.com/yugur).
+The source code and information such as licensing, installation instructions and changelogs can be found on [GitHub](https://github.com/yugur).
 
-Statistics for the RESTful API repository can be found [here](api-stats/index.html) and the same for the web app can be found [here](app-stats/index.html). 
+We use the [gitstats](http://gitstats.sourceforge.net/) tool to generate fancy looking data about the [Yugur RESTful API](api-stats/index.html) and the [Yugur Web App](app-stats/index.html). These pages are updated periodically.
 
 ## Development
 Development is managed through a publicly accessible [Trello board](https://trello.com/b/jMzGDNag/yugur-dictionary-app).
+
+## Artefacts
+There are a number of publicly accessible project artefacts available [here](https://drive.google.com/open?id=0ByT4L7eSmJWtZXIwQV8xX2U2VFU).
